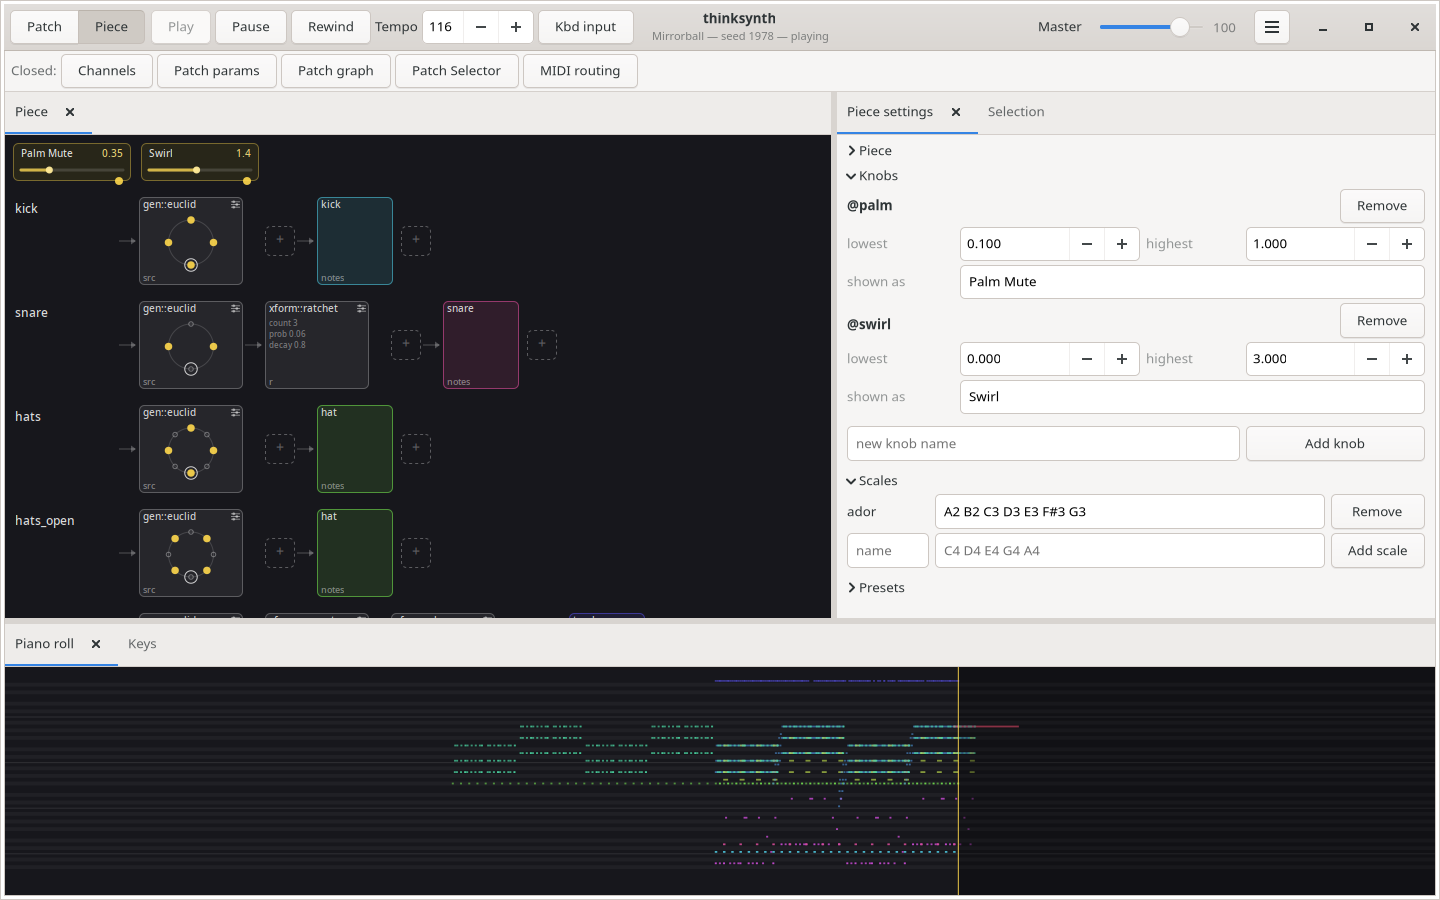
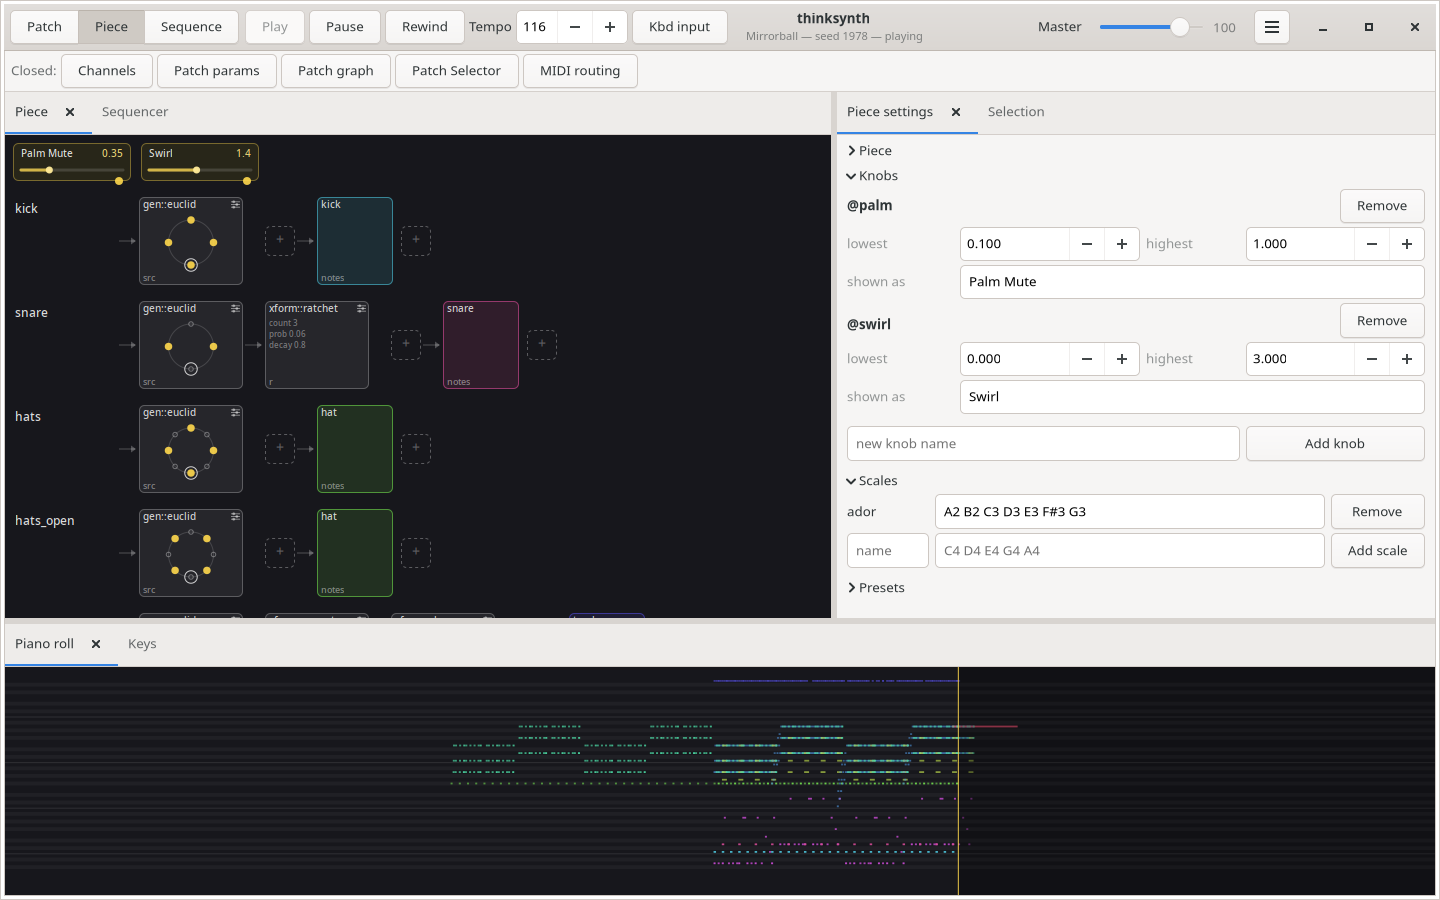
docs: sequence mode in the README's screenshots
desktop-sequence.png is sequence mode playing scratch.gen, taken by
screenshots.py's new sequence() after the same 30 seconds as the piece.
The other two desktop pictures are retaken for the title bar's third
mode toggle, which also moved Play: screenshots.py clicked where the
Sequence toggle now is.

diff --git a/scripts/screenshots.py b/scripts/screenshots.py
@@ -28,6 +28,9 @@ roll with nothing on it. This runs itself under headless.sh for that.
                       graph, its parameters and the keys
   desktop-piece.png   piece mode, with mirrorball.gen half a minute in:
                       the canvas, the piece's settings and the roll
+  desktop-sequence.png
+                      sequence mode, with scratch.gen's tracks playing
+                      and the roll under them
 """
 
 import os
@@ -61,8 +64,12 @@ BROWSER = "Open piece"
 # A screen with room around a first run's 1440x900.
 SCREEN = (1600, 1000)
 
-# Long enough for the roll to have a few bars of every part on it.
+# Long enough for the roll to have a few bars of every part on it, in
+# either piece.
 PLAY_SECONDS = 30
+
+# Play: the first of the transport's buttons, after the three modes'.
+PLAY = (275, 27)
 
 
 def session():
@@ -105,10 +112,23 @@ def piece(name):
         s.click(50, 80, window=BROWSER, double=True)
         s.wait_stable(window=WINDOW)
 
-        # Play: the first of the transport's buttons, after the mode's two.
-        s.click(180, 27, window=WINDOW)
+        s.click(*PLAY, window=WINDOW)
         time.sleep(PLAY_SECONDS)
         s.capture(os.path.join(OUT, "desktop-piece.png"), window=WINDOW,
+                  park=True)
+
+
+def sequence():
+    with session() as s:
+        start(s, "desktop-sequence.log")
+
+        # Sequence mode opens on its own copy of scratch.gen.
+        s.key("ctrl+3")
+        s.wait_stable(window=WINDOW)
+
+        s.click(*PLAY, window=WINDOW)
+        time.sleep(PLAY_SECONDS)
+        s.capture(os.path.join(OUT, "desktop-sequence.png"), window=WINDOW,
                   park=True)
 
 
@@ -116,8 +136,10 @@ def main():
     os.makedirs(OUT, exist_ok=True)
     patch()
     piece("mirrorball")
+    sequence()
 
-    for log in ("desktop-patch.log", "desktop-piece.log"):
+    for log in ("desktop-patch.log", "desktop-piece.log",
+                "desktop-sequence.log"):
         try:
             os.remove(os.path.join(OUT, log))
         except OSError:

diff --git a/README.md b/README.md
@@ -19,6 +19,11 @@ roll underneath.
 
 ![The desktop in piece mode, playing mirrorball.gen](docs/screenshots/desktop-piece.png)
 
+A sequence: `gen/scratch.gen`'s grids as tracks to click patterns into,
+each with the graph that plays it, and the roll underneath.
+
+![The desktop in sequence mode, playing scratch.gen](docs/screenshots/desktop-sequence.png)
+
 A patch: the Rhodes's graph, which can be edited live, and the parameters
 it exposes.
 
